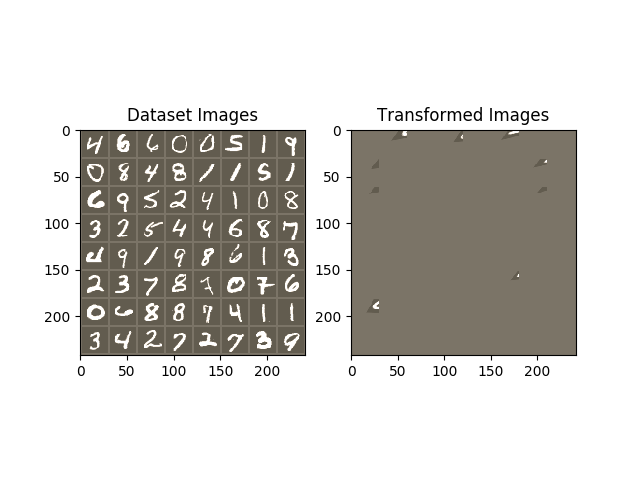
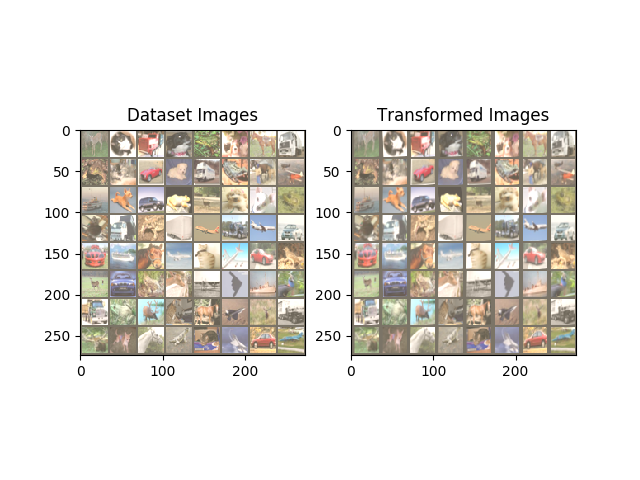
CIFAR looks cool!

Changed region(s): [[0.0625, 0.25, 0.9062, 0.7812]]

diff --git a/spatial_transformer_tutorial.py b/spatial_transformer_tutorial.py
@@ -59,30 +59,22 @@ test_loader = torch.utils.data.DataLoader(
 class Net(nn.Module):
     def __init__(self):
         super(Net, self).__init__()
-        self.conv1 = nn.Conv2d(3, 64, kernel_size=3, stride=1, padding=1, bias=False)
-        self.conv2 = nn.Conv2d(10, 20, kernel_size=5)
-        self.conv2_drop = nn.Dropout2d()
         self.fc1 = nn.Linear(320, 50)
         self.fc2 = nn.Linear(50, 10)
 
         # Spatial transformer localization-network
         self.localization = nn.Sequential(
-            nn.Conv2d(3, 32, kernel_size=3, stride=1, padding=1, bias=False),
+            nn.Conv2d(3, 6, 5),
             nn.ReLU(True),
-            nn.Conv2d(32, 32, kernel_size=3, stride=1, padding=1, bias=False),
-            nn.MaxPool2d(2),
+            nn.MaxPool2d(2, 2),
+            nn.Conv2d(6, 16, 5),
             nn.ReLU(True),
-            nn.Conv2d(32, 32, kernel_size=3, stride=1, padding=1, bias=False),
-            nn.MaxPool2d(2),
-            nn.ReLU(True),
-            nn.Conv2d(32, 32, kernel_size=3, stride=1, padding=1, bias=False),
-            nn.MaxPool2d(2),
-            nn.ReLU(True),
+            nn.MaxPool2d(2, 2),
         )
 
         # Regressor for the 3 * 2 affine matrix
         self.fc_loc = nn.Sequential(
-            nn.Linear(32 * 4 * 4, 1024), nn.ReLU(True), nn.Linear(1024, 3 * 2)
+            nn.Linear(400, 64), nn.ReLU(True), nn.Linear(64, 3 * 2)
         )
 
         # Initialize the weights/bias with identity transformation
@@ -94,7 +86,7 @@ class Net(nn.Module):
     # Spatial transformer network forward function
     def stn(self, x):
         xs = self.localization(x)
-        xs = xs.view(-1, 32 * 4 * 4)
+        xs = xs.view(-1, 16 * 5 * 5)
         theta = self.fc_loc(xs)
         theta = theta.view(-1, 2, 3)
 
@@ -128,31 +120,23 @@ model = Net().to(device)
 
 
 class DiscriminatorNet(nn.Module):
-    def __init__(self, base_model=models.resnet50):
+    def __init__(self):
         super(DiscriminatorNet, self).__init__()
-
-        self.base = []
-
-        # Amend Resnet-50
-        for name, module in base_model().named_children():
-            if name == "conv1":
-                module = nn.Conv2d(
-                    3, 64, kernel_size=3, stride=1, padding=1, bias=False
-                )
-            if not isinstance(module, nn.Linear) and not isinstance(
-                module, nn.MaxPool2d
-            ):
-                self.base.append(module)
-        self.base = nn.Sequential(*self.base)
-        self.g = nn.Sequential(
-            nn.Linear(2048, 128), nn.BatchNorm1d(128), nn.ReLU(), nn.Linear(128, 10)
-        )
+        self.conv1 = nn.Conv2d(3, 6, 5)
+        self.pool = nn.MaxPool2d(2, 2)
+        self.conv2 = nn.Conv2d(6, 16, 5)
+        self.fc1 = nn.Linear(16 * 5 * 5, 120)
+        self.fc2 = nn.Linear(120, 84)
+        self.fc3 = nn.Linear(84, 2)
 
     def forward(self, x):
-        x = self.base(x)
-        x = torch.flatten(x, start_dim=1)
-        out = self.g(x)
-        return out
+        x = self.pool(F.relu(self.conv1(x)))
+        x = self.pool(F.relu(self.conv2(x)))
+        x = x.view(-1, 16 * 5 * 5)
+        x = F.relu(self.fc1(x))
+        x = F.relu(self.fc2(x))
+        x = self.fc3(x)
+        return x
 
 
 optimizer = optim.SGD(model.parameters(), lr=0.01)
@@ -196,7 +180,7 @@ def train(epoch):
                 MSE = torch.sum((identity_tensor - transformer_matrix) ** 2)
 
             except:
-                MSE = torch.sum((identity_tensor[0:32] - transformer_matrix) ** 2)
+                MSE = torch.sum((identity_tensor[0:16] - transformer_matrix) ** 2)
 
             perception_loss = 0.2 / (1 + MSE ** 2)
             print("perception loss", perception_loss)
